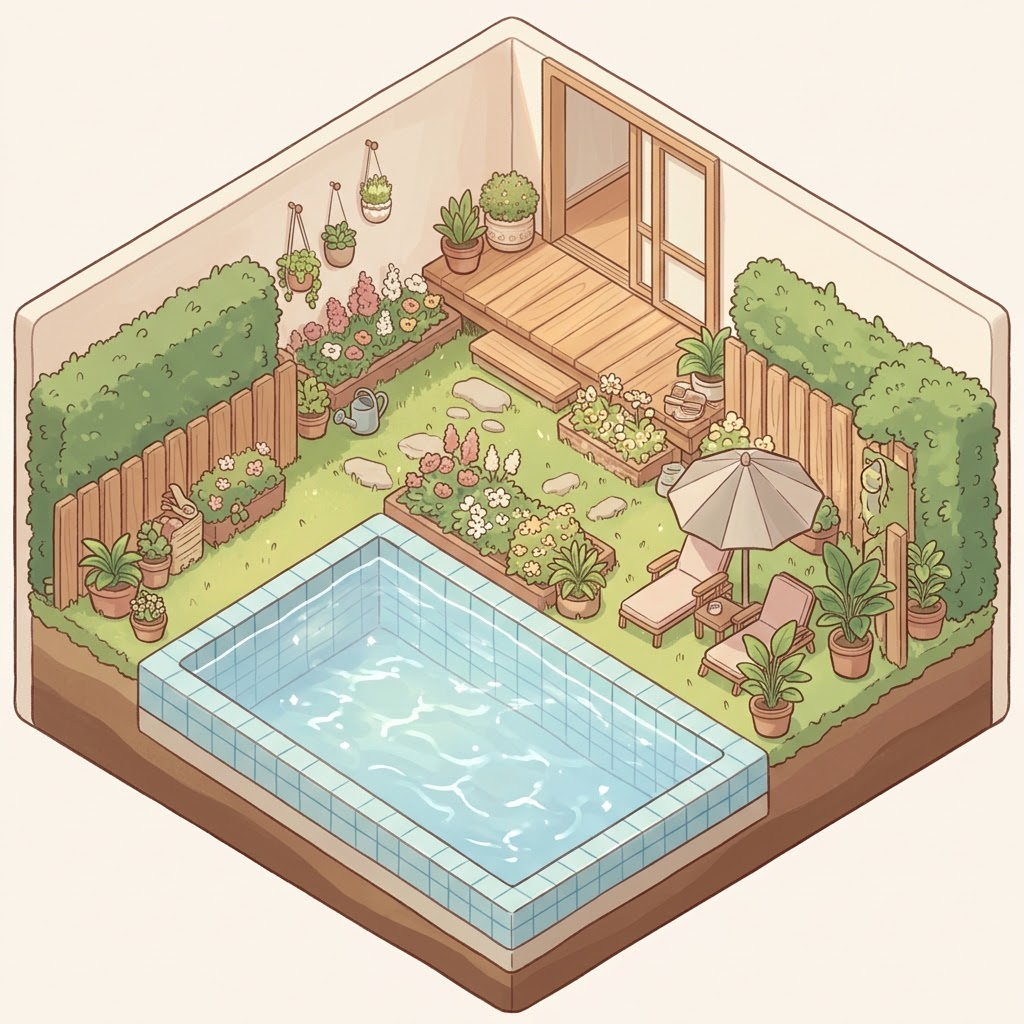
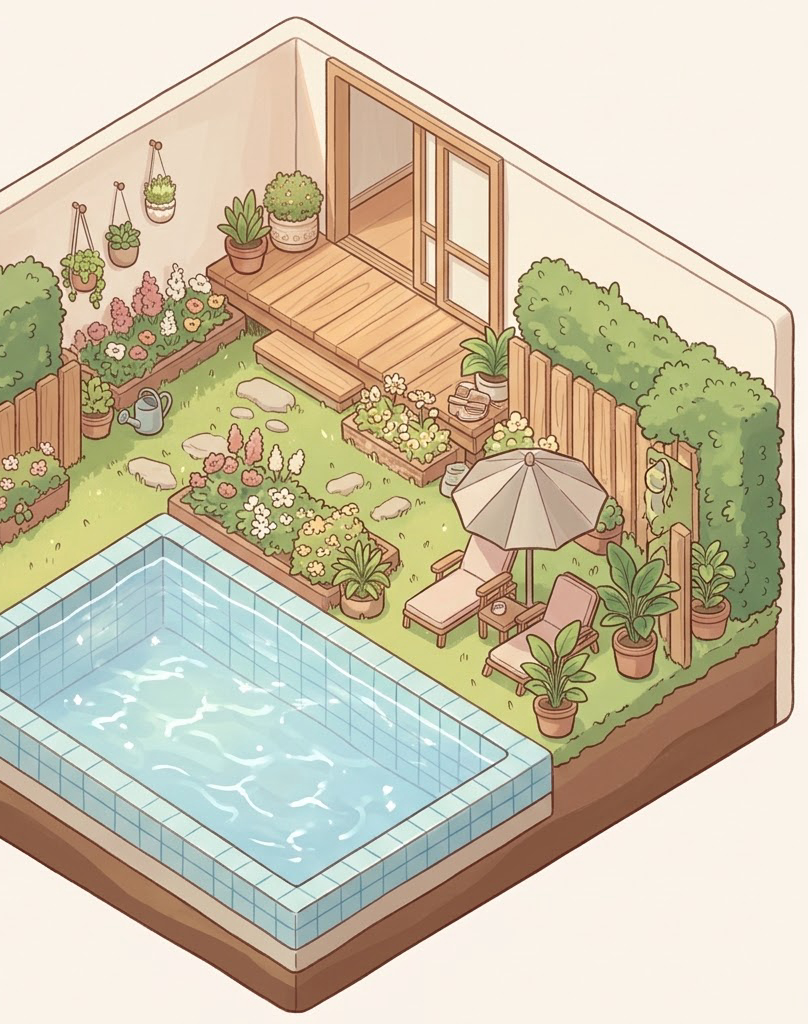
تمركز باب الحديقة تحت غرفة المعيشة مباشرة
قصصت صورة الحديقة/المسبح لتوسيط الباب أفقيًا تحت مخرج غرفة
المعيشة بدل ما يكون مزاح لليمين، حسب ملاحظة المستخدم على صورة
حقيقية من جواله. عدّلت ارتفاع القسم ليطابق النسبة الجديدة للصورة
(808×1024 بدل مربع) حتى ما تنكمش أو تتمدد.

diff --git a/lib/game/house_world.dart b/lib/game/house_world.dart
@@ -28,8 +28,11 @@ class HouseWorld extends World with HasGameReference<HomeWorld> {
 
   static const double roomWidth = 700;
   static const double roomHeight = 350;
-  static const int roomCount = 3;
-  static final Vector2 size = Vector2(roomWidth, roomHeight * roomCount);
+  // The garden+pool illustration is taller than it is wide relative to the
+  // living room's, so it gets its own band height (derived from its actual
+  // pixel aspect ratio) instead of reusing roomHeight, to avoid stretching.
+  static const double gardenPoolHeight = 887;
+  static final Vector2 size = Vector2(roomWidth, roomHeight + gardenPoolHeight);
 
   late final AvatarComponent avatar;
 

diff --git a/lib/game/house_background.dart b/lib/game/house_background.dart
@@ -38,7 +38,7 @@ class HouseBackground extends PositionComponent {
 
     final gardenImage = gardenPoolImage;
     if (gardenImage != null) {
-      final destRect = Rect.fromLTWH(0, 1 * roomH, w, 2 * roomH);
+      final destRect = Rect.fromLTWH(0, roomH, w, size.y - roomH);
       paintImage(
         canvas: canvas,
         rect: destRect,
